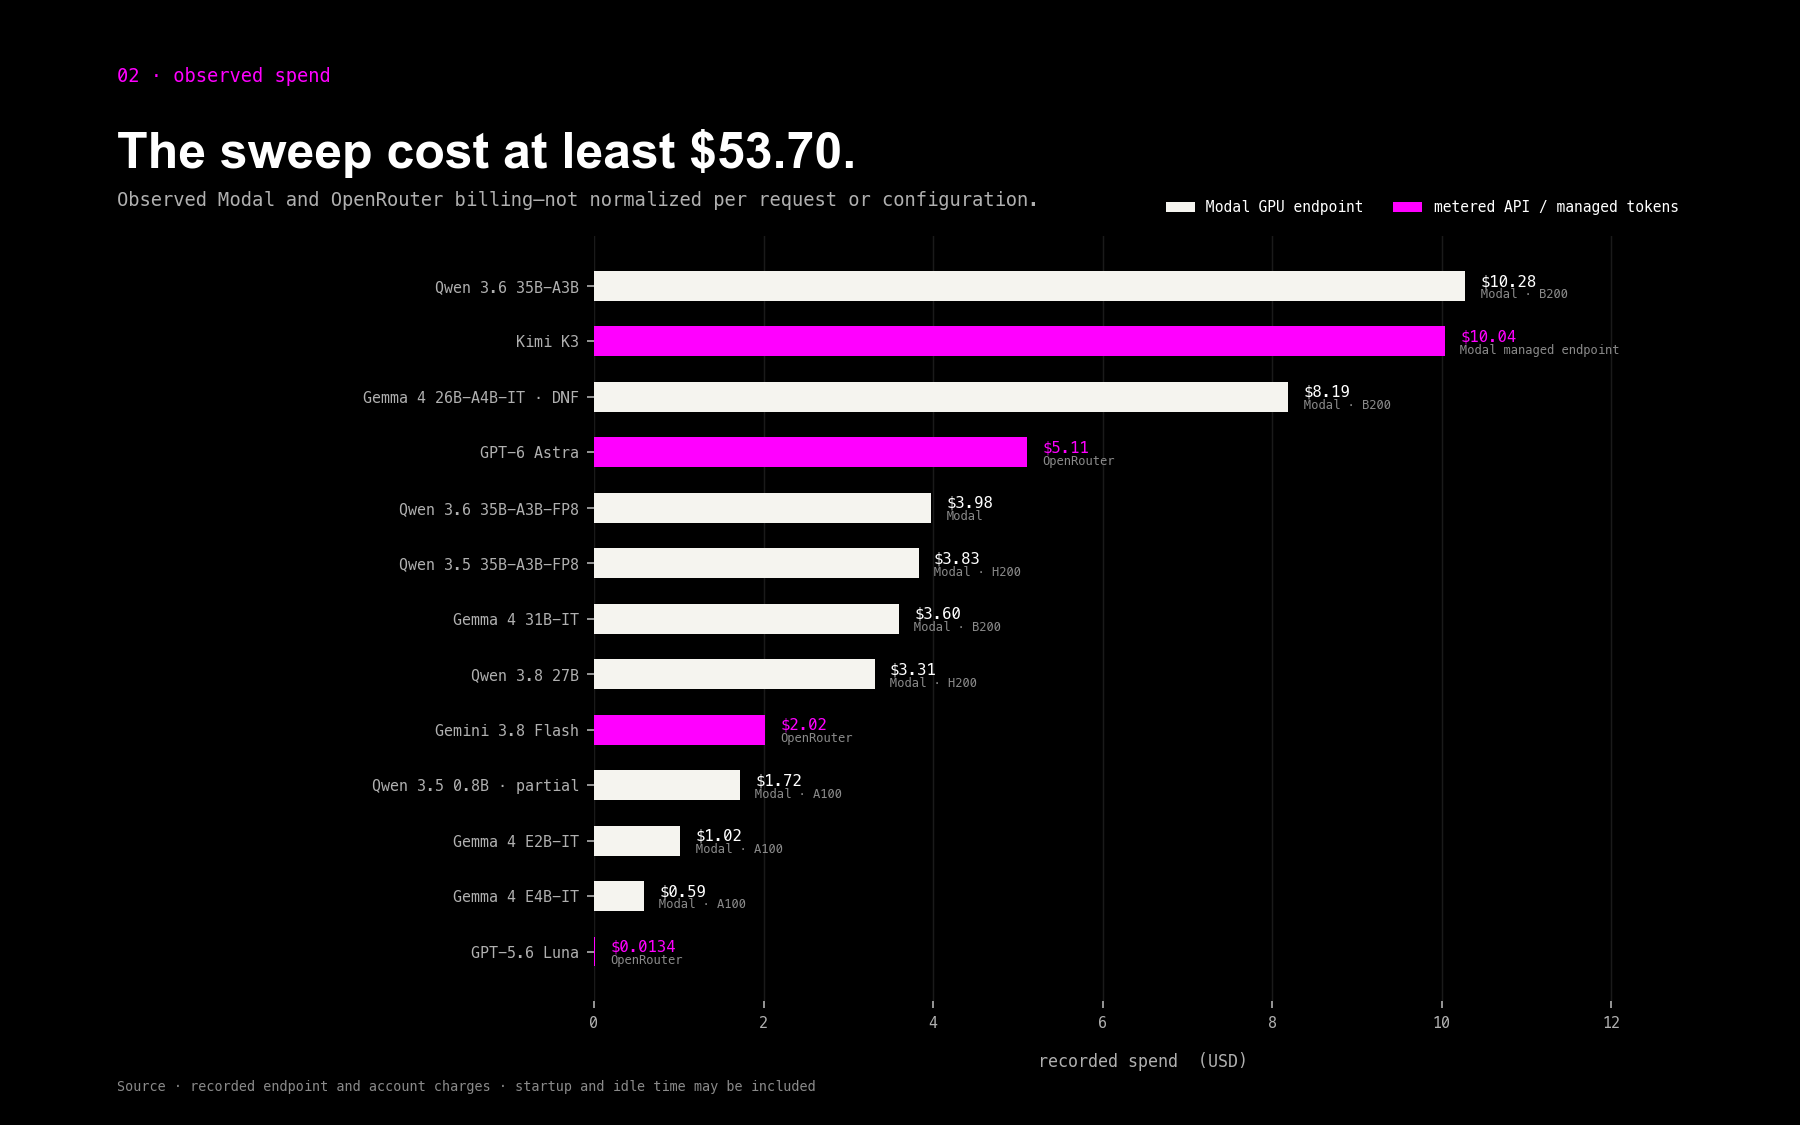
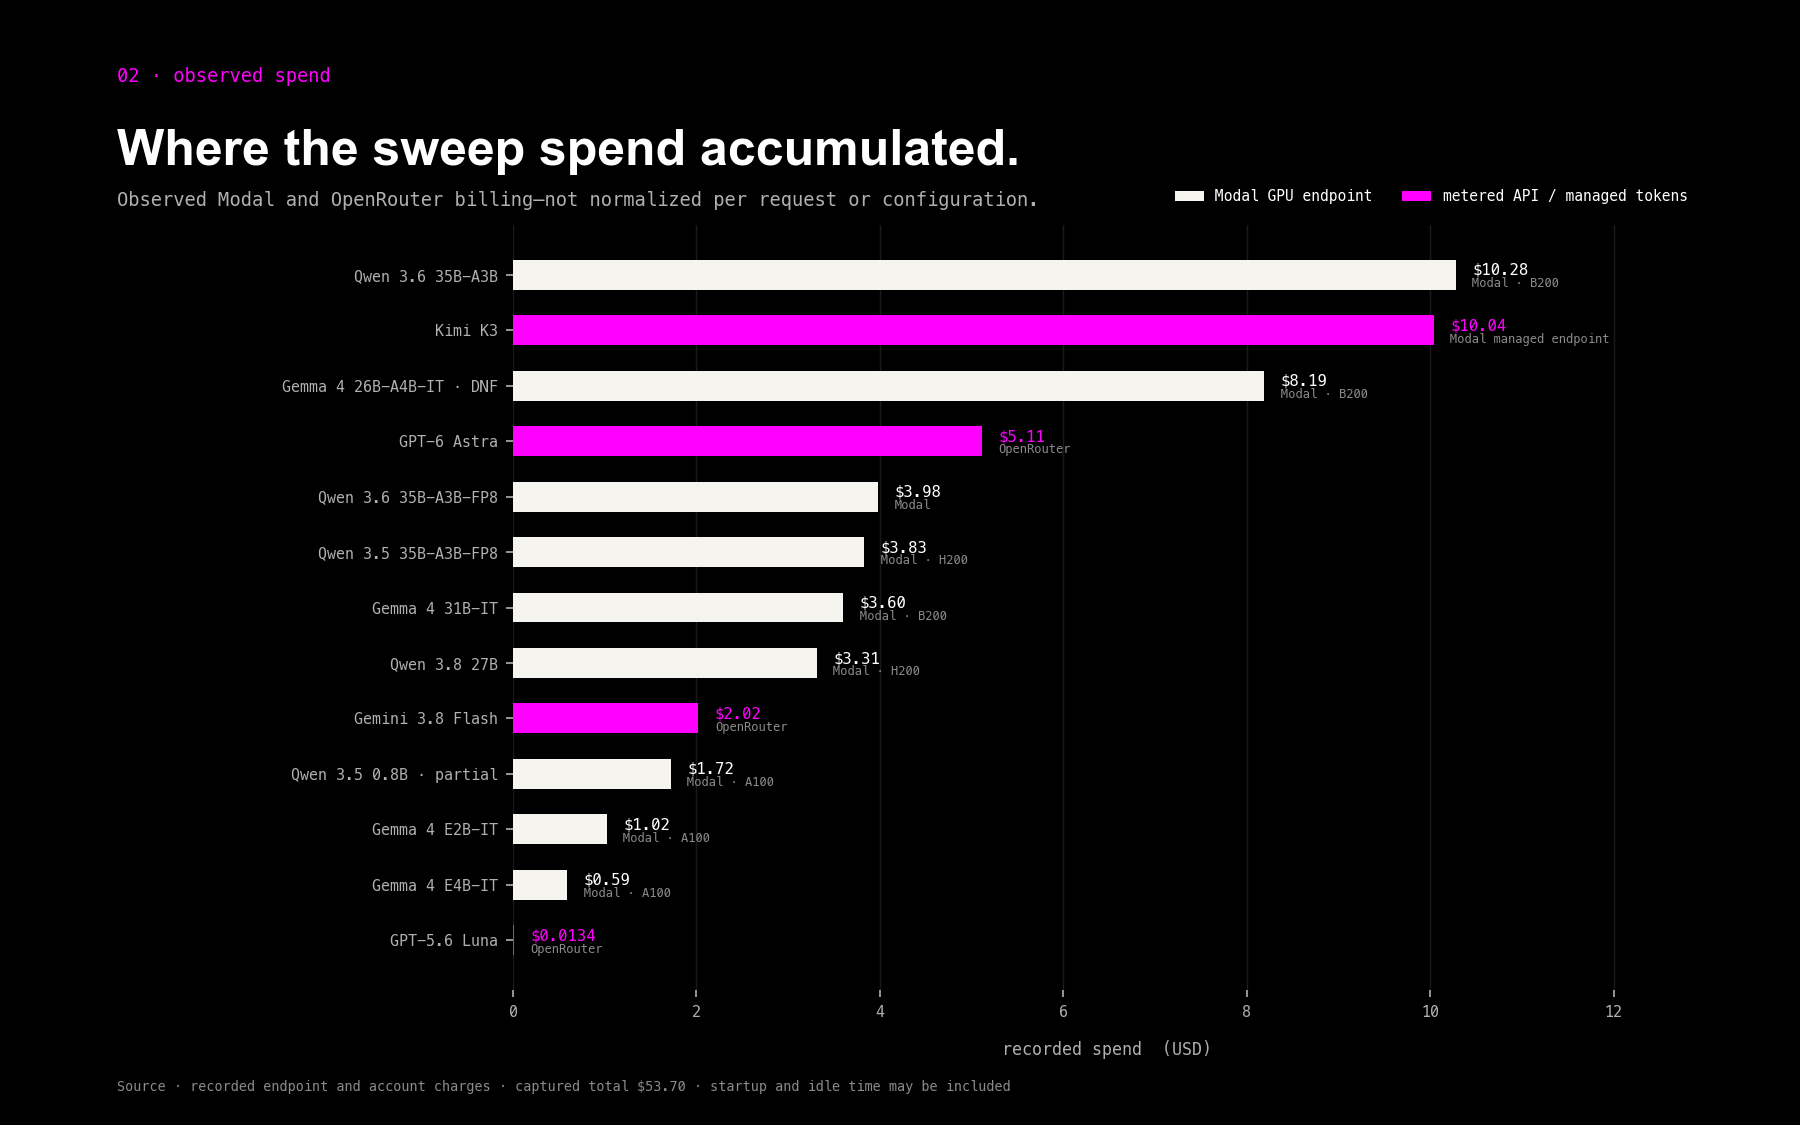
Split article details into appendix

diff --git a/generate_article_visuals.py b/generate_article_visuals.py
@@ -481,10 +481,10 @@ def generate_observed_spend() -> Path:
     )
     figure = new_figure(
         "02 · observed spend",
-        f"The sweep cost at least ${costs['known_total_usd']:.2f}.",
+        "Where the sweep spend accumulated.",
         "Observed Modal and OpenRouter billing—not normalized per request or configuration.",
     )
-    axes = figure.add_axes((0.33, 0.11, 0.61, 0.68))
+    axes = figure.add_axes((0.285, 0.12, 0.66, 0.68))
     axes.set_facecolor(COLORS["midnight"])
     y_positions = list(reversed(range(len(entries))))
     values = [entry["total_usd"] for entry in entries]
@@ -579,7 +579,11 @@ def generate_observed_spend() -> Path:
     )
     add_footer(
         figure,
-        "Source · recorded endpoint and account charges · startup and idle time may be included",
+        (
+            "Source · recorded endpoint and account charges"
+            f" · captured total ${costs['known_total_usd']:.2f}"
+            " · startup and idle time may be included"
+        ),
     )
     return save_figure(figure, "02-observed-sweep-spend.png")
 

diff --git a/ARTICLE.md b/ARTICLE.md
@@ -20,7 +20,7 @@ On a task that looks trivially easy, prompting a vision language model open-loop
 
 > **Note:**
 >
-> [Bench2Drive-VL](https://arxiv.org/abs/2604.01259) (April 2026) is a closed-loop benchmark from a separate research group. It is not VLADBench's direct follow-up; I use it later as a contrast with open-loop VQA.
+> [Bench2Drive-VL](https://arxiv.org/abs/2604.01259) (April 2026) is a closed-loop benchmark from a separate research group. It is not VLADBench's direct follow-up; I use it in the appendix as a contrast with open-loop VQA.
 
 A bit of background before we dive in...
 
@@ -42,7 +42,7 @@ I looked at this task and was like, "Cool, let's see how many models I can run t
 
 The initial survey placed Qwen 3.6 35B-A3B at the top of the official composite score and among the fastest completed configurations. A score of 43.5 out of 100 shows there's still plenty of headroom for improvement. Because the endpoint totals cover different numbers of runs and hardware, this experiment does not establish a normalized cost winner.
 
-The sweep generated at least $53.70 in recorded Modal and OpenRouter charges. These are account-level experiment totals, not normalized model prices: some entries cover more configurations than others, and Modal GPU time may include startup and idle time. Treat this as the observed cost of finding the harness failures, not a price comparison.
+Observed spend varied across serving paths, hardware, and the number of configurations covered by each entry. These are account-level experiment totals, not normalized model prices, and Modal GPU time may include startup and idle time. The plot shows where spend accumulated while finding the harness failures, not a price comparison.
 
 ![Observed Modal and OpenRouter spend across the model sweep](plots/article/02-observed-sweep-spend.png)
 
@@ -58,17 +58,11 @@ Now here is how this actually went:
 
 Almost all of the clips show a vehicle moving laterally across or toward a dashed lane marking. Crossing that marking is a lane change; it becomes a cut-in when the vehicle enters the gap ahead of ego. In ordinary English, "cross the road" instead suggests traversing a roadway, often at an intersection.
 
-**The Score isn't a proxy for Cut-in detection**. The official composite score from the paper is calculated as 70% yes/no judgment, 10% reason, 20% "did you copy an option from the question."
-
 **The goldens were 98.9% positives**, so an always-yes classifier achieves 98.9% judgment accuracy.
 
-**Intent labels are unverifiable** — you can't recover why a driver merged from three frames, so "commuter efficiency" as a gold answer is scoring the model against a guess. And it isn't what a scenario miner needs anyway; they need what happened and where, not motive.
+**Intent labels are unverifiable** — you can't recover why a driver merged from two to seven frames, so "commuter efficiency" as a gold answer is scoring the model against a guess. And it isn't what a scenario miner needs anyway; they need what happened and where, not motive.
 
 Qwen 3.6 35B-A3B, quantized to FP8, led the completed official run on judgment accuracy. GPT-6 was close on composite score but slower in this run. The plot includes every completed configuration with timing metadata; with one run per configuration, I do not have enough evidence to explain why Qwen 3.8 scored below Qwen 3.6.
-
-Turning reasoning on did not help the models that were already ahead. Qwen FP8 dropped from 31.6% judgment to 20.7%. The extra thinking made it more literal, not more visual. That is the first failure mode, and we found it before we changed a word of the prompt.
-
-Relative ranking across a large sweep is operationally more useful than a single heroic run on one model. We ran each configuration once. I am not going to pretend that is a confidence interval. It is enough to choose which configurations deserve replication, not to make a production claim.
 
 ## Then we read the prompt
 
@@ -84,18 +78,11 @@ That does not make the sweep worthless. It makes the absolute numbers too low, a
 
 ![Judgment accuracy before and after replacing the official crossing-the-road wording with cut-in wording](plots/article/04-prompt-rewrite-comparison.png)
 
-
-| Model               | Judgment, official | Judgment, reworded | False positives |
-| ------------------- | ------------------ | ------------------ | --------------- |
-| Qwen3.6-35B-A3B-FP8 | 31.6%              | 71.8%              | 0 → 1           |
-| Qwen3.6-35B-A3B     | 29.3%              | 65.5%              | —               |
-| GPT-6 Astra         | 25.9%              | 52.3%              | 0 → 0           |
-| Gemini 3.8 Flash    | 15.5%              | 18.4%              | 0 → 0           |
-
-
 The order of the models we re-ran did not change. Qwen FP8, then Qwen, then GPT-6, then Gemini. If you came to this task to pick a model, that ranking is the thing that survived. The scores did not. Four words moved Qwen by forty points. Gemini barely moved. Specificity is not a style choice. It is a hyperparameter, it does not transfer across vendors, and on a fleet you will not have a folder name to warn you that the prompt is almost the right question.
 
 I am not going to relabel the gold to make anyone look better. The ranking held. The magnitudes did not. Both of those facts matter.
+
+[The exact reworded results are in the appendix.](APPENDIX.md#exact-prompt-rewrite-results)
 
 ## The yes-set problem
 
@@ -117,24 +104,6 @@ We have seen the drop internally as well: turn localization on, performance move
 
 That is a large part of why throwing a VLM at ambient logs is expensive. You do not just pay per token. You pay for a prompt you cannot validate, a box you may need, and a miss rate you cannot see.
 
-## Then we tried to grade "why"
-
-The third question asserts the cut-in and asks for a reason from a short list. The most common gold reason, 44 of 86 scored clips, is `commuting efficiency`. It is not defined in the paper, the supplement, or the JSON. It is a motive: they moved into ego's path to get ahead. You cannot see that in a last frame. You can see a Honda on a dashed line. The models say `lane change`. Gold uses `lane change` twice.
-
-![Distribution of VLADBench gold reason labels, dominated by commuting efficiency](plots/article/07-reason-label-distribution.png)
-
-This is the point where I got angry at the benchmark as a grading instrument, not just as a prompt. Cut-in is hard to see. Explaining it in a taxonomy that mixes geometry (`merge onto main road`) with unobservable intent is harder. We did not "correct" those golds to `lane change`. That would be fitting labels to the predictions we already had. What we can say is: once the English was honest, GPT-6's reason accuracy fell (25.6% → 18.6%) and the number of clips it got fully right — yes, yes, and the canned reason — fell from 13 to 7. With the broken prompt it had been matching the benchmark's favorite phrase. Ask the real question and the reason head falls apart.
-
-Designing the eval is the job. If the classes are not in the pixels, you are not measuring perception.
-
-## What the authors did next
-
-The VLADBench paper does not publish a postmortem on this task. Three months later, an overlapping author group (including Yue Li and Meng Tian) put out [Drive-R1](https://arxiv.org/abs/2506.18234) (AAAI 2026). The question there is no longer "did the VLM answer the VQA." The opening result is a planner that does as well or better without camera data. The model was using history and ego state, not the image. They evaluate on nuScenes and DriveLM, not on VLADBench.
-
-That later paper is not a VLADBench postmortem, but it demonstrates the broader risk: open-loop visual question answering can look like understanding while the model is not looking. Separately, [Bench2Drive-VL](https://arxiv.org/abs/2604.01259) (April 2026), from a different research group, contrasts closed-loop evaluation with the previous generation of open-loop VQA. VLADBench's own limitations section is narrower. It asks for multi-view and better domain training. It does not ask whether the questions are the task.
-
-I went to VLADBench to pick a model. The later papers investigate different evaluation problems; they do not prove why the authors changed direction. My narrower finding is that this VQA task was not a stable measurement of cut-in detection.
-
 ## I am disappointed in both
 
 I am disappointed in most of the vision stack we swept for this job. Below the top five, I would not prioritize another run of these configurations until the eval is fixed. Gemma E2B, Gemma E4B, GPT-5.6 Luna, Qwen 3.8 without thinking, the fine-tune: they are not close on this harness. If you start a replication anywhere, start with Qwen 3.6 35B-A3B. Not because it solved the problem. Because it reached the top with low measured latency, leaving more iteration time for the failure modes below.
@@ -145,17 +114,6 @@ I am disappointed in the benchmark. The English did not name the task. The class
 
 Both can be true. A bad eval does not automatically mean the ranking is bad. Ours held after we fixed the English. It does mean you should not believe the score.
 
-## A list of ways not to do this
-
-I failed so you don't have to. From the most naive to least, try to avoid these assumptions when working with your fleet logs:
-
-1. **Do not treat scoring as a model pick without reading the question.** If the prompt does not reflect the scenario, you are ranking overfit results, not perception. The scenario is a spec worth spending time on.
-2. **Do not assume the prompt wording transfers across models.** Four words, forty points on Qwen, almost nothing on Gemini. Write the question you mean. Test it on every vendor.
-3. **Do not turn on chain-of-thought and assume vision improved.** On this task, thinking almost always made the leader more literal and worsened scores.
-4. **Do not trust a high pass rate on a yes-set.** 86 of 87 clips here are positives. Fleet video is the opposite. You have not measured the false-alarm cost.
-5. **Do not treat a bounding box as a free accuracy boost.** Answers change. Sometimes they get worse. You now depend on a detector you may not have.
-6. **Do not put motives in the taxonomy.** `commuting efficiency` is not a visual class. `lane change` is. Grade what is in the frame.
-7. **Do not skip the sweep.** One model on one prompt is just one datapoint. Sweeping twenty configurations told us which configurations not to prioritize on this harness.
-8. **Do not use open-loop VQA as a proxy for scenario mining.** This task did not establish whether the model actually used the image, and separate closed-loop work measures behavior much further from a yes/no over a handful of JPEGs.
-
 Detecting cut-ins is hard. Writing a perception benchmark for them, especially one that goes through a vision-language model, is harder. The value of the last two days is not a template for evaluating cut-ins open-loop; it is evidence that benchmark design dominated the result. If you build the next experiment, Qwen 3.6 35B-A3B is a reasonable starting point on this harness—not proof of production performance—and the evaluation design deserves at least as much attention as the model.
+
+[The appendix contains the complete scores, exact prompt results, reasoning analysis, reason-label taxonomy, related work, and full checklist.](APPENDIX.md)

diff --git a/APPENDIX.md b/APPENDIX.md
@@ -1,0 +1,55 @@
+# Appendix: VLADBench Vehicle Cut-in details
+
+This appendix contains the detailed results, attribution analysis, related work, and complete checklist for [the main article](ARTICLE.md).
+
+## Complete scores and scoring
+
+**The Score isn't a proxy for Cut-in detection**. The official composite score from the paper is calculated as 70% yes/no judgment, 10% reason, 20% "did you copy an option from the question."
+
+The complete run tables are in the [official leaderboard](LEADERBOARD.md) and [reworded-prompt leaderboard](LEADERBOARD-reword.md).
+
+## Exact prompt-rewrite results
+
+| Model               | Judgment, official | Judgment, reworded | False positives |
+| ------------------- | ------------------ | ------------------ | --------------- |
+| Qwen3.6-35B-A3B-FP8 | 31.6%              | 71.8%              | 0 → 1           |
+| Qwen3.6-35B-A3B     | 29.3%              | 65.5%              | —               |
+| GPT-6 Astra         | 25.9%              | 52.3%              | 0 → 0           |
+| Gemini 3.8 Flash    | 15.5%              | 18.4%              | 0 → 0           |
+
+## Reasoning and single-run caveat
+
+Turning reasoning on did not help the models that were already ahead. Qwen FP8 dropped from 31.6% judgment to 20.7%. The extra thinking made it more literal, not more visual. That is the first failure mode, and we found it before we changed a word of the prompt.
+
+Relative ranking across a large sweep is operationally more useful than a single heroic run on one model. We ran each configuration once. I am not going to pretend that is a confidence interval. It is enough to choose which configurations deserve replication, not to make a production claim.
+
+## Then we tried to grade "why"
+
+The third question asserts the cut-in and asks for a reason from a short list. The most common gold reason, 44 of 86 scored clips, is `commuting efficiency`. It is not defined in the paper, the supplement, or the JSON. It is a motive: they moved into ego's path to get ahead. You cannot see that in a last frame. You can see a Honda on a dashed line. The models say `lane change`. Gold uses `lane change` twice.
+
+![Distribution of VLADBench gold reason labels, dominated by commuting efficiency](plots/article/07-reason-label-distribution.png)
+
+This is the point where I got angry at the benchmark as a grading instrument, not just as a prompt. Cut-in is hard to see. Explaining it in a taxonomy that mixes geometry (`merge onto main road`) with unobservable intent is harder. We did not "correct" those golds to `lane change`. That would be fitting labels to the predictions we already had. What we can say is: once the English was honest, GPT-6's reason accuracy fell (25.6% → 18.6%) and the number of clips it got fully right — yes, yes, and the canned reason — fell from 13 to 7. With the broken prompt it had been matching the benchmark's favorite phrase. Ask the real question and the reason head falls apart.
+
+Designing the eval is the job. If the classes are not in the pixels, you are not measuring perception.
+
+## What the authors did next
+
+The VLADBench paper does not publish a postmortem on this task. Three months later, an overlapping author group (including Yue Li and Meng Tian) put out [Drive-R1](https://arxiv.org/abs/2506.18234) (AAAI 2026). The question there is no longer "did the VLM answer the VQA." The opening result is a planner that does as well or better without camera data. The model was using history and ego state, not the image. They evaluate on nuScenes and DriveLM, not on VLADBench.
+
+That later paper is not a VLADBench postmortem, but it demonstrates the broader risk: open-loop visual question answering can look like understanding while the model is not looking. Separately, [Bench2Drive-VL](https://arxiv.org/abs/2604.01259) (April 2026), from a different research group, contrasts closed-loop evaluation with the previous generation of open-loop VQA. VLADBench's own limitations section is narrower. It asks for multi-view and better domain training. It does not ask whether the questions are the task.
+
+I went to VLADBench to pick a model. The later papers investigate different evaluation problems; they do not prove why the authors changed direction. My narrower finding is that this VQA task was not a stable measurement of cut-in detection.
+
+## A list of ways not to do this
+
+I failed so you don't have to. From the most naive to least, try to avoid these assumptions when working with your fleet logs:
+
+1. **Do not treat scoring as a model pick without reading the question.** If the prompt does not reflect the scenario, you are ranking overfit results, not perception. The scenario is a spec worth spending time on.
+2. **Do not assume the prompt wording transfers across models.** Four words, forty points on Qwen, almost nothing on Gemini. Write the question you mean. Test it on every vendor.
+3. **Do not turn on chain-of-thought and assume vision improved.** On this task, thinking almost always made the leader more literal and worsened scores.
+4. **Do not trust a high pass rate on a yes-set.** 86 of 87 clips here are positives. Fleet video is the opposite. You have not measured the false-alarm cost.
+5. **Do not treat a bounding box as a free accuracy boost.** Answers change. Sometimes they get worse. You now depend on a detector you may not have.
+6. **Do not put motives in the taxonomy.** `commuting efficiency` is not a visual class. `lane change` is. Grade what is in the frame.
+7. **Do not skip the sweep.** One model on one prompt is just one datapoint. Sweeping twenty configurations told us which configurations not to prioritize on this harness.
+8. **Do not use open-loop VQA as a proxy for scenario mining.** This task did not establish whether the model actually used the image, and separate closed-loop work measures behavior much further from a yes/no over a handful of JPEGs.
